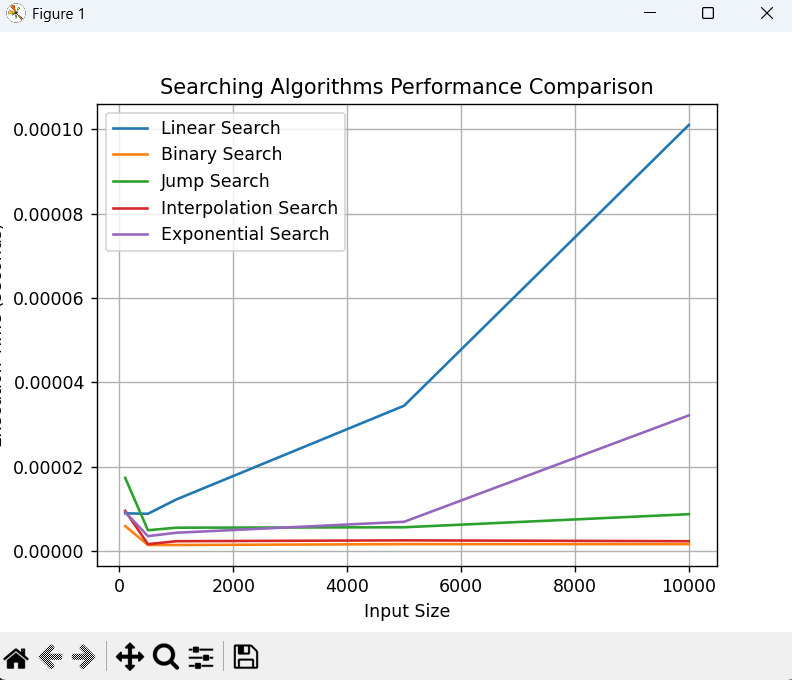
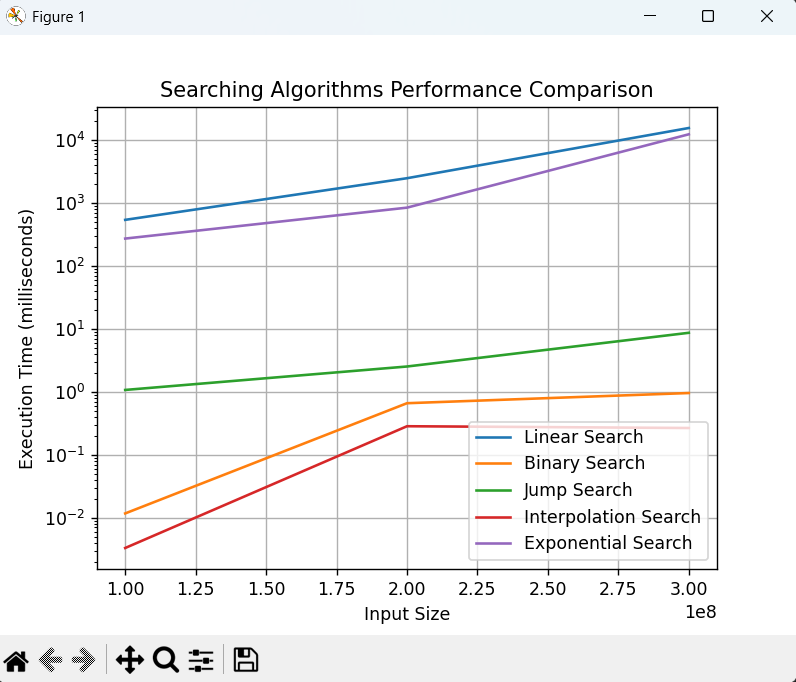
Greater sets of data

diff --git a/src/run.py b/src/run.py
@@ -19,7 +19,7 @@ from src.plot_results import plot_results
 
 
 def run_experiment():
-    sizes = [100, 500, 1000, 5000, 10000]
+    sizes = [100_000_000, 200_000_000, 300_000_000]
 
     algorithms = {
         "Linear Search": linear_search,
@@ -33,9 +33,13 @@ def run_experiment():
 
     for size in sizes:
         print(f"Testing size {size}")
-
         data = generate_sorted_data(size)
         target = generate_target(data)
+        inf_limit = data[0]
+        max_limit = data[len(data)-1]
+        print (f"Inferior limit of list: {inf_limit} ")
+        print (f"Superior limit of list: {max_limit}")
+        print (f"Target: {target}")
 
         for name, algorithm in algorithms.items():
 

diff --git a/src/data_generator.py b/src/data_generator.py
@@ -3,15 +3,8 @@
 import random
 
 def generate_sorted_data(size):
-    data = random.sample(range(size * 3), size)
-    data.sort()
-    return data
+    # ya viene ordenado, O(1)
+    return list(range(size))
 
-
-def generate_target(data, case="random"):
-    if case == "best":
-        return data[0]
-    elif case == "worst":
-        return -1  # value not in array
-    else:
-        return random.choice(data)
+def generate_target(data):
+    return random.randint(0, len(data) - 1)

diff --git a/src/plot_results.py b/src/plot_results.py
@@ -10,8 +10,9 @@ def plot_results(results):
         plt.plot(sizes, execution_times, label=algorithm)
 
     plt.xlabel("Input Size")
-    plt.ylabel("Execution Time (seconds)")
+    plt.ylabel("Execution Time (milliseconds)")
     plt.title("Searching Algorithms Performance Comparison")
     plt.legend()
     plt.grid(True)
+    plt.yscale("log")
     plt.show()

diff --git a/src/execution_time_gathering.py b/src/execution_time_gathering.py
@@ -4,7 +4,9 @@ import time
 
 def measure_execution_time(search_function, data, target):
     start = time.perf_counter()
+
     search_function(data, target)
+
     end = time.perf_counter()
 
-    return end - start
+    return (end - start) * 1000

diff --git a/README.md b/README.md
@@ -226,15 +226,21 @@ The following graphs appeared.
 
 Since several searching algorithms require the input array to be sorted (Binary Search, Jump Search, Interpolation Search, and Exponential Search), the experiments were conducted using sorted arrays. This ensures that all algorithms operate under valid conditions and can be fairly compared.
 
-After running the experiment, the graph compares the execution time of the five searching algorithms as the input size increases from 100 to 10,000 elements.
+After running the experiment, the graph compares the execution time of the five searching algorithms as the input size increases from 100,000,000 to 300,000,000 elements. 
 
-The results show that Linear Search has the highest growth in execution time. This happens because the algorithm may need to check each element in the array until it finds the target, resulting in a time complexity of O(n).
+The results obtained from the experiment show clear differences in the performance of the evaluated search algorithms when the input size increases from 100 million to 300 million elements.
 
-On the other hand, Binary Search, Jump Search, Interpolation Search, and Exponential Search perform significantly faster because they work on sorted arrays and reduce the search space more efficiently.
+The Linear Search algorithm exhibits the highest execution times among all the tested algorithms. This behavior occurs because Linear Search examines the elements sequentially until it finds the target value. As a result, the algorithm may need to inspect a large portion of the dataset before locating the desired element, which corresponds to its theoretical time complexity of O(n). In this experiment, the execution time varies depending on the position of the target within the list. For example, when the target is located closer to the beginning of the array, fewer comparisons are required and the execution time decreases, while targets located further into the dataset require more comparisons and therefore more time.
 
-Binary Search and Exponential Search maintain very low execution times due to their logarithmic complexity O(log n). Jump Search performs slightly slower with complexity O(sqrt(n)), while Interpolation Search also performs efficiently when the data is uniformly distributed.
+The other algorithms — Binary Search, Jump Search, Interpolation Search, and Exponential Search — perform significantly faster because they exploit the fact that the dataset is sorted. Instead of examining every element sequentially, these algorithms progressively reduce the search space, allowing them to locate the target with far fewer comparisons.
 
-Overall, the experiment confirms the theoretical behavior of these algorithms, showing that algorithms with logarithmic complexity scale much better than linear ones as the dataset size increases.
+Binary Search and Exponential Search maintain extremely low execution times because both rely on logarithmic growth of comparisons, corresponding to a time complexity of O(log n). Even when the dataset increases from 100 million to 300 million elements, the number of required comparisons grows very slowly, which explains why their execution times remain almost constant in the graph.
+
+Jump Search performs slightly slower than Binary Search because its complexity is O(sqrt(n)). Although it still reduces the number of comparisons significantly compared to Linear Search, the square root growth means that the number of steps increases faster than logarithmic algorithms as the dataset becomes larger.
+
+Interpolation Search shows very efficient performance in this experiment because the dataset is uniformly distributed. Since the array values increase in a predictable and evenly spaced manner, the algorithm can estimate the likely position of the target very accurately, allowing it to locate the element with very few iterations.
+
+Overall, the experiment confirms the theoretical expectations of these algorithms. Algorithms with logarithmic or sublinear complexity scale much more efficiently as the dataset grows, while algorithms with linear complexity become significantly slower when processing very large datasets.
 
 Also, in the cmd the following output appeared:
 
